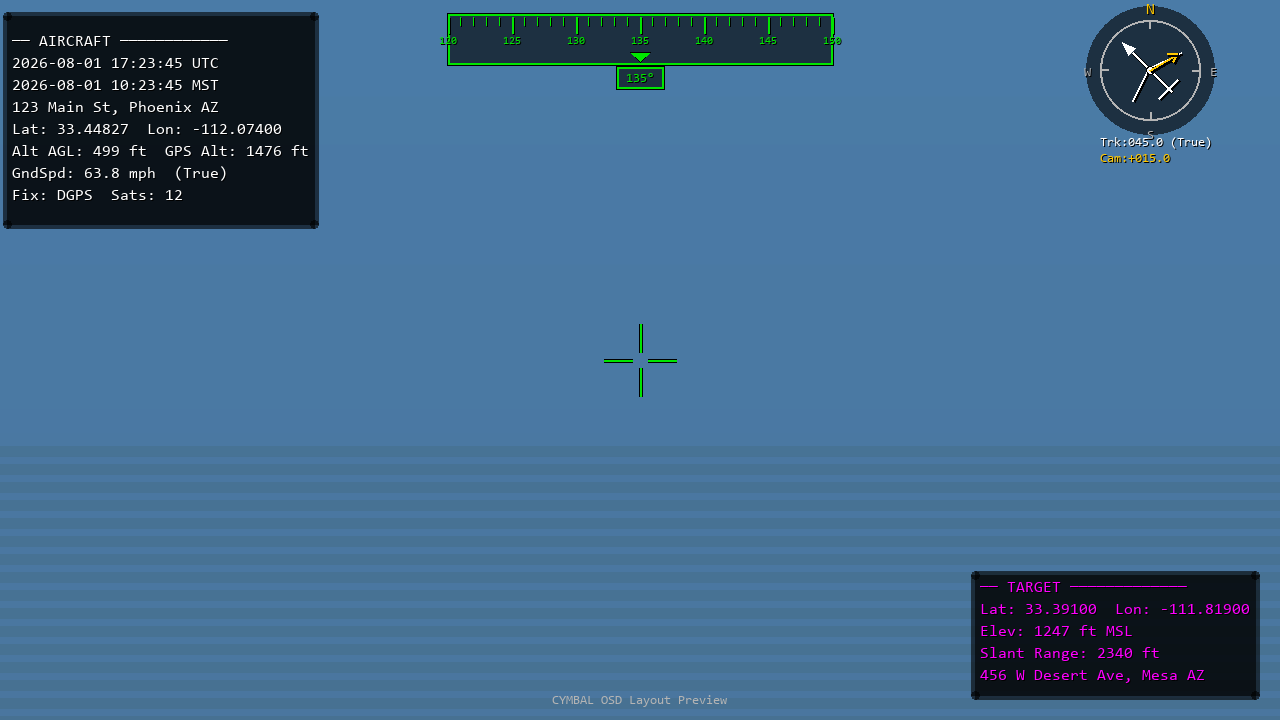
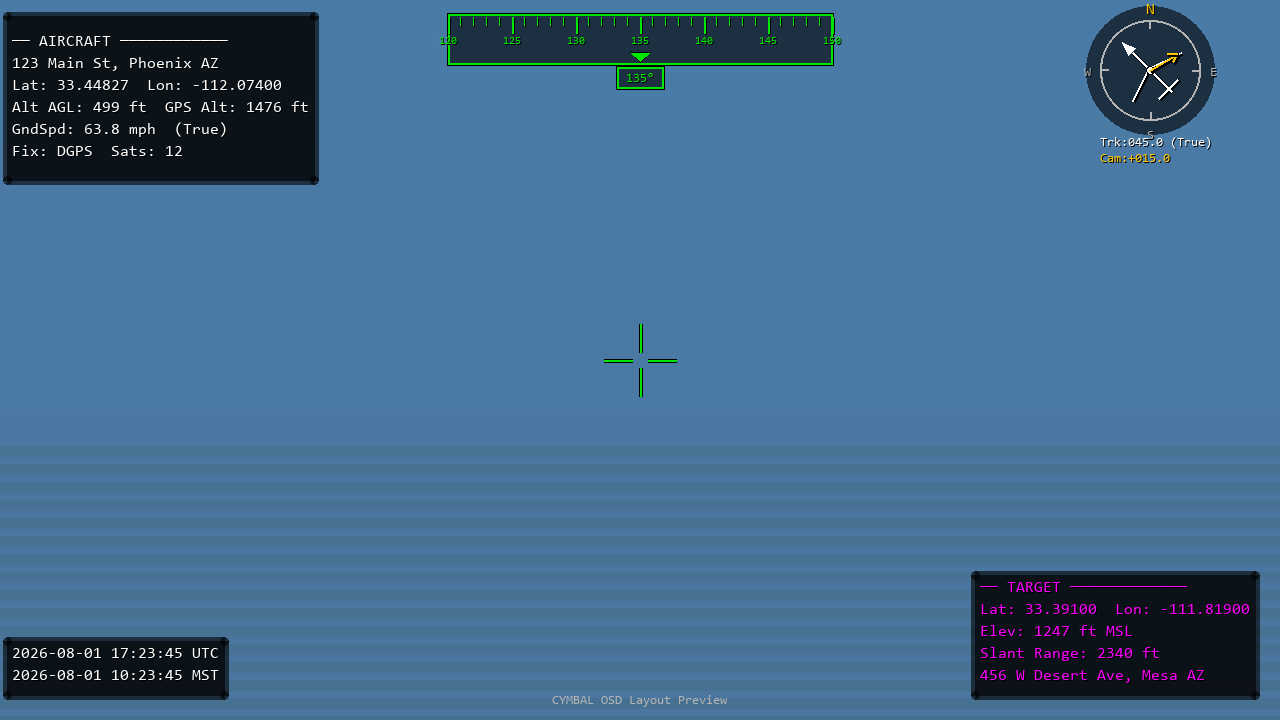
feat(osd): move datetime groups to own panel in lower-left
Extract UTC + local timestamps from the aircraft panel into a
dedicated _draw_datetime_panel() that renders at the bottom-left:

  2026-08-01 17:23:45 UTC
  2026-08-01 10:23:45 MST

Changes:
- overlay_controller.pxd: add _draw_datetime_panel cdef
- overlay_controller.pyx: remove timestamps from _build_aircraft_lines();
  add _draw_datetime_panel() (bottom-left, same white text-box style);
  call it as step 2 in render_frame()
- osd_test_helpers.py: add _build_datetime_lines(), expose
  datetime_lines in render_frame() dict frame; remove timestamps
  from _build_aircraft_lines()
- test_osd_text_box.py: replace 4 timestamp tests with 5 datetime
  panel tests; restore row indices [1]-[5] for address/GPS/alt/spd/fix
  (no more +2 offset); min rows 8->6
- test_osd_render_pipeline.py: update timestamp test to check
  datetime_lines; add test_datetime_panel_always_present
- generate_osd_mockup.py + osd_mockup.png: datetime panel at
  bottom-left, aircraft panel has no timestamps
77 tests pass.

Changed region(s): [[0.0, 0.0611, 0.25, 0.3361], [0.0, 0.8861, 0.1875, 0.9778]]

diff --git a/tests/video/test_osd_text_box.py b/tests/video/test_osd_text_box.py
@@ -23,7 +23,7 @@ class TestOSDTextBoxLines(unittest.TestCase):
         return osd
 
     # ------------------------------------------------------------------
-    # Panel header
+    # Aircraft panel header
     # ------------------------------------------------------------------
 
     def test_aircraft_panel_header_present(self):
@@ -33,83 +33,73 @@ class TestOSDTextBoxLines(unittest.TestCase):
         self.assertIn("AIRCRAFT", lines[0])
 
     # ------------------------------------------------------------------
-    # Timestamp (UTC + local date-timestamps)
+    # Datetime panel (bottom-left, separate from aircraft panel)
     # ------------------------------------------------------------------
 
-    def test_timestamp_uses_injected_time(self):
+    def test_datetime_panel_contains_utc(self):
         osd = self._osd()
         fill_telemetry(osd)
-        lines = osd._build_aircraft_lines()
-        # UTC line must contain the injected time (now includes date)
-        self.assertIn("17:42:03 UTC", lines[1])
+        dt_lines = osd._build_datetime_lines()
+        self.assertIn("17:42:03 UTC", dt_lines[0])
 
-    def test_timestamp_includes_date(self):
+    def test_datetime_panel_includes_date(self):
         osd = self._osd()
         fill_telemetry(osd)
-        lines = osd._build_aircraft_lines()
-        # fixed_time uses year=2000, month=1, day=1
-        self.assertIn("2000-01-01", lines[1])
+        dt_lines = osd._build_datetime_lines()
+        self.assertIn("2000-01-01", dt_lines[0])
 
-    def test_timestamp_default_format(self):
-        osd = self._osd()
-        fill_telemetry(osd)
-        lines = osd._build_aircraft_lines()
-        self.assertIn("UTC", lines[1])
-        # YYYY-MM-DD HH:MM:SS
-        parts = lines[1].split(" ")
-        self.assertRegex(parts[0], r'^\d{4}-\d{2}-\d{2}$')
-        self.assertRegex(parts[1], r'^\d{2}:\d{2}:\d{2}$')
-
-    def test_local_timestamp_present_when_tz_configured(self):
-        """When local_timezone is set, a second local date-time line appears."""
+    def test_datetime_panel_local_line_present(self):
         osd = self._osd()
         osd.local_timezone = "America/Phoenix"
         osd._resolve_timezone()
         fill_telemetry(osd)
-        lines = osd._build_aircraft_lines()
-        # lines[2] should be the local timestamp
-        local_line = lines[2]
-        self.assertIn("MST", local_line)
-        self.assertIn("2000-01-01", local_line)
-        # 17:42:03 UTC → 10:42:03 MST (UTC-7)
-        self.assertIn("10:42:03", local_line)
+        dt_lines = osd._build_datetime_lines()
+        self.assertEqual(len(dt_lines), 2)
+        self.assertIn("MST", dt_lines[1])
+        self.assertIn("10:42:03", dt_lines[1])
 
-    def test_local_timestamp_absent_when_no_tz(self):
-        """When local_timezone is empty, only the UTC line is shown."""
+    def test_datetime_panel_utc_only_when_no_tz(self):
         osd = self._osd()
         osd.local_timezone = ""
         osd._resolve_timezone()
         fill_telemetry(osd)
+        dt_lines = osd._build_datetime_lines()
+        self.assertEqual(len(dt_lines), 1)
+
+    def test_aircraft_panel_has_no_timestamps(self):
+        """Timestamps must NOT appear in the aircraft panel lines."""
+        osd = self._osd()
+        fill_telemetry(osd)
         lines = osd._build_aircraft_lines()
-        # lines[2] should be address, not a timezone line
-        self.assertNotIn("MST", lines[2])
-        self.assertNotIn("UTC-", lines[2])
+        self.assertFalse(any("UTC" in l for l in lines),
+                         "UTC timestamp should be in datetime panel, not aircraft panel")
+        self.assertFalse(any("MST" in l for l in lines))
 
     # ------------------------------------------------------------------
-    # Address row (index shifts +1 when local tz is active — default)
+    # Address row (index 1 now — no timestamps in aircraft panel)
     # ------------------------------------------------------------------
 
     def test_address_row_present(self):
         osd = self._osd()
         fill_telemetry(osd, address="1234 E Main St, Mesa, AZ 85201")
         lines = osd._build_aircraft_lines()
-        self.assertIn("1234 E Main St", lines[3])
+        self.assertIn("1234 E Main St", lines[1])
 
     def test_unknown_address_fallback(self):
         osd = self._osd()
         fill_telemetry(osd, address="")
         lines = osd._build_aircraft_lines()
-        self.assertEqual(lines[3], "Unknown address")
+        self.assertEqual(lines[1], "Unknown address")
 
     # ------------------------------------------------------------------
-    # GPS position row
+    # GPS position row (index 2)
     # ------------------------------------------------------------------
 
     def test_gps_row_with_fix(self):
         osd = self._osd()
         fill_telemetry(osd, lat=33.41520, lon=-111.83150)
         lines = osd._build_aircraft_lines()
-        gps_row = lines[4]
+        gps_row = lines[2]
         self.assertIn("33.41520", gps_row)
         self.assertIn("-111.83150", gps_row)
 
@@ -117,10 +107,10 @@ class TestOSDTextBoxLines(unittest.TestCase):
         osd = self._osd()
         fill_telemetry(osd, lat=float('nan'), lon=float('nan'))
         lines = osd._build_aircraft_lines()
-        self.assertIn("No fix", lines[4])
+        self.assertIn("No fix", lines[2])
 
     # ------------------------------------------------------------------
-    # Altitude AGL row — Imperial (feet)
+    # Altitude AGL row — Imperial (feet) (index 3)
     # ------------------------------------------------------------------
 
     def test_alt_agl_row_in_feet(self):
@@ -128,25 +118,25 @@ class TestOSDTextBoxLines(unittest.TestCase):
         fill_telemetry(osd, alt_agl=152.3)
         lines = osd._build_aircraft_lines()
         expected_ft = f"{152.3 * _M_TO_FT:.0f}"
-        self.assertIn(expected_ft, lines[5])
-        self.assertIn("ft", lines[5])
-        self.assertNotIn(" m", lines[5])
+        self.assertIn(expected_ft, lines[3])
+        self.assertIn("ft", lines[3])
+        self.assertNotIn(" m", lines[3])
 
     def test_alt_msl_row_in_feet(self):
         osd = self._osd()
         fill_telemetry(osd, alt_msl=450.0)
         lines = osd._build_aircraft_lines()
         expected_ft = f"{450.0 * _M_TO_FT:.0f}"
-        self.assertIn(expected_ft, lines[5])
+        self.assertIn(expected_ft, lines[3])
 
     def test_alt_agl_row_missing(self):
         osd = self._osd()
         fill_telemetry(osd, alt_agl=float('nan'))
         lines = osd._build_aircraft_lines()
-        self.assertIn("--", lines[5])
+        self.assertIn("--", lines[3])
 
     # ------------------------------------------------------------------
-    # Ground speed row — Imperial (mph) + True label
+    # Ground speed row — Imperial (mph) + True label (index 4)
     # ------------------------------------------------------------------
 
     def test_groundspeed_row_in_mph(self):
@@ -154,44 +144,44 @@ class TestOSDTextBoxLines(unittest.TestCase):
         fill_telemetry(osd, groundspeed=28.4)
         lines = osd._build_aircraft_lines()
         expected_mph = f"{28.4 * _MS_TO_MPH:.1f}"
-        self.assertIn(expected_mph, lines[6])
-        self.assertIn("mph", lines[6])
-        self.assertNotIn("m/s", lines[6])
+        self.assertIn(expected_mph, lines[4])
+        self.assertIn("mph", lines[4])
+        self.assertNotIn("m/s", lines[4])
 
     def test_groundspeed_row_has_true_label(self):
         osd = self._osd()
         fill_telemetry(osd, groundspeed=20.0)
         lines = osd._build_aircraft_lines()
-        self.assertIn("True", lines[6])
+        self.assertIn("True", lines[4])
 
     def test_groundspeed_row_missing(self):
         osd = self._osd()
         fill_telemetry(osd, groundspeed=float('nan'))
         lines = osd._build_aircraft_lines()
-        self.assertIn("--", lines[6])
+        self.assertIn("--", lines[4])
 
     # ------------------------------------------------------------------
-    # Fix quality / satellites row
+    # Fix quality / satellites row (index 5)
     # ------------------------------------------------------------------
 
     def test_fix_quality_gps(self):
         osd = self._osd()
         fill_telemetry(osd, fix_quality=1, satellites=9)
         lines = osd._build_aircraft_lines()
-        self.assertIn("GPS", lines[7])
-        self.assertIn("9", lines[7])
+        self.assertIn("GPS", lines[5])
+        self.assertIn("9", lines[5])
 
     def test_fix_quality_dgps(self):
         osd = self._osd()
         fill_telemetry(osd, fix_quality=2, satellites=11)
         lines = osd._build_aircraft_lines()
-        self.assertIn("DGPS", lines[7])
+        self.assertIn("DGPS", lines[5])
 
     def test_fix_quality_no_fix(self):
         osd = self._osd()
         fill_telemetry(osd, fix_quality=0, satellites=0)
         lines = osd._build_aircraft_lines()
-        self.assertIn("No fix", lines[7])
+        self.assertIn("No fix", lines[5])
 
     # ------------------------------------------------------------------
     # SBUS channel rows (optional)
@@ -248,14 +238,14 @@ class TestOSDTextBoxLines(unittest.TestCase):
         self.assertEqual(osd._build_lines(), osd._build_aircraft_lines())
 
     # ------------------------------------------------------------------
-    # Minimum line count (header + UTC ts + local ts + addr + GPS + alt + spd + fix = 8)
+    # Minimum line count (header + addr + GPS + alt + spd + fix = 6)
     # ------------------------------------------------------------------
 
-    def test_minimum_eight_base_rows(self):
+    def test_minimum_six_base_rows(self):
         osd = self._osd()
         fill_telemetry(osd)
         lines = osd._build_aircraft_lines()
-        self.assertGreaterEqual(len(lines), 8)
+        self.assertGreaterEqual(len(lines), 6)
 
 
 if __name__ == '__main__':

diff --git a/tests/video/osd_test_helpers.py b/tests/video/osd_test_helpers.py
@@ -167,7 +167,8 @@ class OSDOverlay:
         # Mark the frame so tests can detect that render_frame ran
         if isinstance(frame, dict):
             frame['annotated'] = True
-            frame['lines']     = self._build_aircraft_lines()
+            frame['lines']          = self._build_aircraft_lines()
+            frame['datetime_lines'] = self._build_datetime_lines()
             if self.poi_locked:
                 frame['target_lines'] = self._build_target_lines()
         else:
@@ -186,22 +187,6 @@ class OSDOverlay:
 
         # Panel header
         lines.append("\u2500\u2500 AIRCRAFT \u2500\u2500\u2500\u2500\u2500\u2500\u2500\u2500\u2500\u2500\u2500\u2500")
-
-        # UTC date-timestamp
-        utc_dt = self._time_fn()
-        ts_utc = utc_dt.strftime("%Y-%m-%d %H:%M:%S UTC")
-        lines.append(ts_utc)
-
-        # Local date-timestamp (when timezone configured)
-        if self._local_tz is not None:
-            try:
-                import datetime as _dt_mod
-                utc_aware = utc_dt.replace(tzinfo=_dt_mod.timezone.utc)
-                local_dt  = utc_aware.astimezone(self._local_tz)
-                tz_abbr   = local_dt.strftime("%Z")
-                lines.append(local_dt.strftime(f"%Y-%m-%d %H:%M:%S {tz_abbr}"))
-            except Exception:
-                pass
 
         # Address
         lines.append(self.address or "Unknown address")
@@ -270,6 +255,22 @@ class OSDOverlay:
     # Keep _build_lines as an alias for backward compatibility
     def _build_lines(self):
         return self._build_aircraft_lines()
+
+    def _build_datetime_lines(self):
+        """Build the bottom-left datetime panel lines."""
+        lines = []
+        utc_dt = self._time_fn()
+        lines.append(utc_dt.strftime("%Y-%m-%d %H:%M:%S UTC"))
+        if self._local_tz is not None:
+            try:
+                import datetime as _dt_mod
+                utc_aware = utc_dt.replace(tzinfo=_dt_mod.timezone.utc)
+                local_dt  = utc_aware.astimezone(self._local_tz)
+                tz_abbr   = local_dt.strftime("%Z")
+                lines.append(local_dt.strftime(f"%Y-%m-%d %H:%M:%S {tz_abbr}"))
+            except Exception:
+                pass
+        return lines
 
     def close(self):
         if self._video_sink is not None:

diff --git a/tools/generate_osd_mockup.py b/tools/generate_osd_mockup.py
@@ -340,12 +340,10 @@ def create_osd_mockup(output_path="docs/osd_mockup.png", width=1280, height=720)
     pad = max(6,  int(9  * scale))   # panel padding
 
     # -------------------------------------------------------------------------
-    # AIRCRAFT PANEL — top-left
+    # AIRCRAFT PANEL — top-left (no timestamps here)
     # -------------------------------------------------------------------------
     aircraft_lines = [
         "\u2500\u2500 AIRCRAFT \u2500\u2500\u2500\u2500\u2500\u2500\u2500\u2500\u2500\u2500\u2500\u2500",
-        "2026-08-01 17:23:45 UTC",
-        "2026-08-01 10:23:45 MST",
         "123 Main St, Phoenix AZ",
         "Lat: 33.44827  Lon: -112.07400",
         "Alt AGL: 499 ft  GPS Alt: 1476 ft",
@@ -353,6 +351,23 @@ def create_osd_mockup(output_path="docs/osd_mockup.png", width=1280, height=720)
         "Fix: DGPS  Sats: 12",
     ]
     draw_aircraft_panel(draw, 12, 12 + lh, aircraft_lines, font_med, lh, pad)
+
+    # -------------------------------------------------------------------------
+    # DATETIME PANEL — bottom-left
+    # -------------------------------------------------------------------------
+    datetime_lines = [
+        "2026-08-01 17:23:45 UTC",
+        "2026-08-01 10:23:45 MST",
+    ]
+    max_dt_w = max(tw(draw, l, font_med) for l in datetime_lines)
+    dt_panel_h = len(datetime_lines) * lh + pad * 2
+    dt_x = 12
+    dt_y = height - dt_panel_h - 12
+    draw_panel_bg(draw, dt_x - pad, dt_y - pad, max_dt_w + pad * 2, dt_panel_h)
+    ty_dt = dt_y
+    for line in datetime_lines:
+        put_text(draw, dt_x, ty_dt, line, font_med, WHITE)
+        ty_dt += lh
 
     # -------------------------------------------------------------------------
     # HEADING TAPE — top-center

diff --git a/tests/video/test_osd_render_pipeline.py b/tests/video/test_osd_render_pipeline.py
@@ -135,9 +135,20 @@ class TestOSDRenderPipeline(unittest.TestCase):
         fill_telemetry(osd)
         frame = {}
         osd.render_frame(frame)
-        lines = frame.get('lines', [])
-        # lines[1] is UTC date-timestamp; contains injected time
-        self.assertIn("09:15:30 UTC", lines[1])
+        # Timestamps are now in their own datetime panel, not the aircraft lines
+        dt_lines = frame.get('datetime_lines', [])
+        self.assertTrue(
+            any("09:15:30 UTC" in l for l in dt_lines),
+            f"Expected timestamp in datetime_lines: {dt_lines}"
+        )
+
+    def test_datetime_panel_always_present(self):
+        osd, sink = make_osd(time_fn=fixed_time("09:15:30 UTC"))
+        fill_telemetry(osd)
+        frame = {}
+        osd.render_frame(frame)
+        self.assertIn('datetime_lines', frame)
+        self.assertGreater(len(frame['datetime_lines']), 0)
 
     # ------------------------------------------------------------------
     # Target panel visibility
